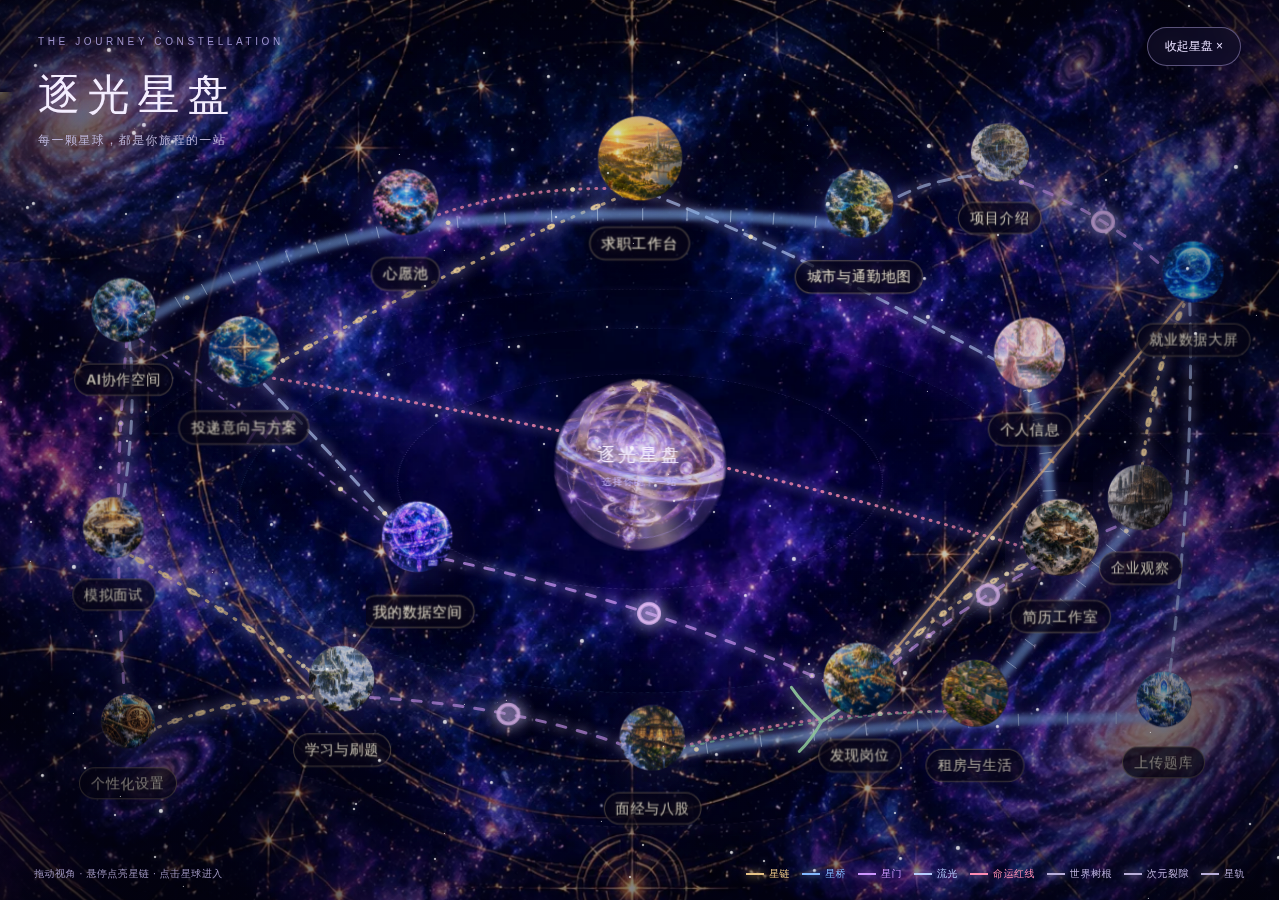
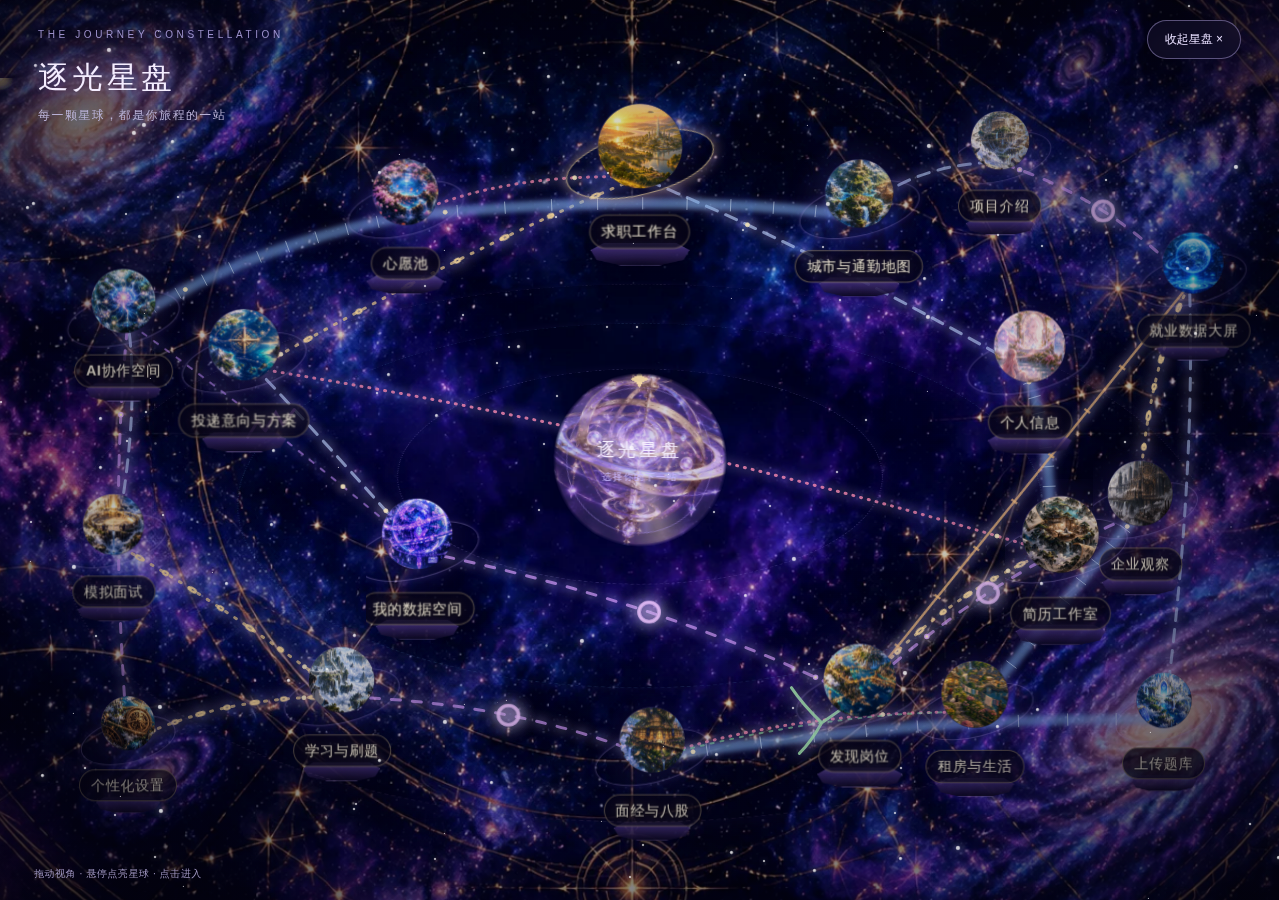
feat: 星盘入口与浮空星球视觉再设计
入口改为动态天体盘；18个节点增加浮空底座/轨道环；移除右下角连接图例；缩小标题、拉开布局并修正流星朝向/增强星尘。

diff --git a/app/src/app.css b/app/src/app.css
@@ -2701,3 +2701,29 @@ html[data-theme="night"] .housing-rent select { color: #eaf2ff; }
 .star-map-stars i{box-shadow:0 0 8px #e9eeff,0 0 18px rgba(170,190,255,.9);opacity:.8}
 /* 星球悬浮投影 */
 .star-planet:after{content:"";position:absolute;left:50%;bottom:-9px;width:78%;height:14px;transform:translateX(-50%);border-radius:50%;background:radial-gradient(ellipse,rgba(6,4,22,.72),transparent 72%);filter:blur(5px);z-index:-1;pointer-events:none}
+
+/* 星盘入口：迷你天体盘，而不是普通胶囊 */
+.orbit-trigger{width:auto!important;padding:6px 14px 6px 6px!important;gap:9px!important;background:linear-gradient(135deg,rgba(22,14,48,.96),rgba(42,27,82,.94))!important;border:1px solid rgba(224,197,255,.5)!important;color:#f5ebff!important;box-shadow:0 8px 28px rgba(65,40,130,.45),0 0 22px rgba(139,100,255,.25)!important;overflow:visible!important}
+.orbit-trigger-orb{position:relative;display:block;width:42px;height:42px;border-radius:50%;background-size:cover;background-position:center;box-shadow:0 0 0 1px rgba(255,230,170,.55),0 0 18px rgba(169,128,255,.7),inset 0 0 12px rgba(255,255,255,.2);animation:triggerOrb 9s ease-in-out infinite;flex:0 0 auto}
+.orbit-trigger-orb:after{content:"";position:absolute;inset:-5px;border-radius:50%;border:1px dashed rgba(247,216,152,.5);animation:triggerRing 12s linear infinite}
+.orbit-trigger-label{font-family:Georgia,"Songti SC",serif;font-size:13px;letter-spacing:.08em;white-space:nowrap;color:#f1e4ff;text-shadow:0 0 14px rgba(190,155,255,.55)}
+.orbit-trigger:hover{border-color:rgba(255,231,174,.85)!important;box-shadow:0 10px 32px rgba(80,50,150,.55),0 0 30px rgba(180,135,255,.5)!important}
+@keyframes triggerOrb{0%,100%{filter:brightness(.92)}50%{filter:brightness(1.2)}}
+@keyframes triggerRing{to{transform:rotate(360deg)}}
+.star-map-head h1{font-size:clamp(22px,2.4vw,36px)!important;letter-spacing:.12em!important}
+.star-map-head{padding-top:20px!important}
+.star-map-stage{inset:78px 0 58px!important}
+@media(max-width:900px){.star-map-stage{inset:66px 0 50px!important}}
+
+/* 3D 浮空岛底座 */
+.star-planet-base{position:absolute;left:50%;top:72%;width:86%;height:30%;z-index:0;transform:translateX(-50%) perspective(300px) rotateX(58deg);background:linear-gradient(180deg,rgba(159,133,228,.55),rgba(67,47,121,.8) 35%,rgba(18,13,42,.96));clip-path:polygon(12% 0,88% 0,100% 35%,92% 78%,68% 100%,32% 100%,8% 78%,0 35%);border:1px solid rgba(219,190,255,.3);box-shadow:0 18px 24px rgba(3,2,15,.55),0 0 22px rgba(132,99,255,.28);pointer-events:none}
+.star-planet-base:after{content:"";position:absolute;left:18%;right:18%;bottom:-12%;height:28%;background:radial-gradient(ellipse,rgba(6,4,22,.75),transparent 70%);filter:blur(6px)}
+.star-planet-shadow{position:absolute;left:50%;bottom:1%;width:70%;height:10%;z-index:-1;transform:translateX(-50%);border-radius:50%;background:rgba(0,0,0,.34);filter:blur(8px);pointer-events:none}
+.star-planet-img{position:relative;z-index:2}
+.star-planet-halo{z-index:1}
+.star-planet-name{position:relative;z-index:3}
+.star-planet:hover .star-planet-base,.star-planet:focus-visible .star-planet-base{border-color:rgba(255,226,164,.75);box-shadow:0 20px 28px rgba(3,2,15,.65),0 0 32px rgba(202,159,255,.6)}
+.star-planet-base{top:88%!important;height:22%!important;width:76%!important}
+.star-planet-orbit{position:absolute;left:50%;top:48%;width:124%;height:38%;z-index:1;transform:translate(-50%,-50%) rotate(-14deg);border:1px solid rgba(199,177,255,.32);border-radius:50%;box-shadow:0 0 8px rgba(144,112,255,.16);pointer-events:none;transition:.25s}
+.star-planet:hover .star-planet-orbit,.star-planet:focus-visible .star-planet-orbit,.star-planet.is-current .star-planet-orbit{border-color:rgba(255,226,164,.75);box-shadow:0 0 12px rgba(255,209,127,.45),0 0 20px rgba(144,112,255,.3)}
+.star-planet-base{top:90%!important;height:26%!important;width:82%!important}

diff --git a/app/src/star-map.ts b/app/src/star-map.ts
@@ -52,7 +52,6 @@ const CONNECTIONS: Connect[] = [
   { a: "data", b: "chat", kind: "rift" },
   { a: "jobs", b: "dashboard", kind: "rail" },
 ];
-const KIND_LABEL: Record<string, string> = { chain: "星链", bridge: "星桥", portal: "星门", starlight: "流光", thread: "命运红线", worldtree: "世界树根", rift: "次元裂隙", rail: "星轨" };
 const METEORS = (() => { let s = 91; const r = () => (s = (s * 48271) % 2147483647) / 2147483647; return Array.from({ length: 8 }, (_, i) => ({ left: 8 + r() * 85, top: r() * 48, len: 60 + r() * 100, delay: r() * 14, dur: 4 + r() * 3, key: i })); })();
 METEORS[0].delay = 0.2; METEORS[0].dur = 3.2; METEORS[0].top = 8; METEORS[0].left = 22;
 METEORS[1].delay = 3.4; METEORS[1].dur = 3.8; METEORS[1].top = 18; METEORS[1].left = 70;
@@ -149,6 +148,9 @@ export default defineComponent({
         title: DESCS[id] || name,
         "data-page": id,
       }, [
+        h("span", { class: "star-planet-shadow" }),
+        h("span", { class: "star-planet-base" }),
+        h("span", { class: "star-planet-orbit" }),
         h("span", { class: "star-planet-halo" }),
         h("span", { class: "star-planet-img" }, [
           h("span", { class: "star-planet-fallback" }, icon),
@@ -183,8 +185,7 @@ export default defineComponent({
           ])
         : null,
       h("div", { class: "star-map-foot" }, [
-        h("span", null, "拖动视角 · 悬停点亮星链 · 点击星球进入"),
-        h("div", { class: "star-map-legend" }, Object.entries(KIND_LABEL).map(([k, label]) => h("span", { class: "legend-" + k }, label))),
+        h("span", null, "拖动视角 · 悬停点亮星球 · 点击进入"),
       ]),
     ]);
   },

diff --git a/app/src/draggable-orbit.ts b/app/src/draggable-orbit.ts
@@ -460,8 +460,8 @@ export default defineComponent({
           onDragstart: (event: DragEvent) => event.preventDefault(),
         },
         [
-          h("i", { "aria-hidden": "true" }, "✦"),
-          h("span", expanded ? "收起星盘" : "展开星盘"),
+          h("span", { class: "orbit-trigger-orb", style: { backgroundImage: 'url("/assets/star-map/astrolabe2.webp")' }, "aria-hidden": "true" }),
+          h("span", { class: "orbit-trigger-label" }, expanded ? "收起星盘" : "展开星盘"),
         ],
       );
     };

diff --git a/docs/TEST_REPORT.md b/docs/TEST_REPORT.md
@@ -219,7 +219,7 @@
 - 数据空间：数据概览为本账号口径；上传记录可撤销；同岗位/企业/租房/问题按业务键保留最新并删除旧行；样例文件和去重/撤销测试通过。
 - 岗位投递意向：岗位卡片显示未确认/待保存/已确认；支持按已确认/未确认筛选，筛选使用服务端已保存意向。
 - 地图：修复 .page-content > * 的 relative 定位覆盖 .map-full fixed 导致地图容器 0 高度；地图层现在固定填满视口。岗位/租房/地铁/酒店/推荐改为类型化 SVG 图钉，图例置于顶部；进入地图时隐藏网站顶部栏，地图搜索框保持在顶部；通勤方向的住房/岗位地址已选后可点击 × 清除；企业详情表格字号提升到 14px/1.75；租房筛选栏合并城市、搜索、租金控件，搜索按钮改为主色；学习页 iframe 不再被 page-content 的 relative 规则下推，紧贴顶部栏；批量简化改为一次请求处理多条，最多50道并跳过已有答案；卡片显示“简化答案”标记；收藏/错题接口返回完整题目，刷新后收藏与错题列表和按钮状态恢复；修复 review 列表 onMounted/onActivated 并发重载导致的多次点击；面经八股移除重复的收藏/待复习/已掌握/学习入口；问问AI改为打开知微对话草稿，画布分步讲题和3D立方体鼠标交互通过；长题用 chip、Shift+Enter 换行、输入框自动伸缩、图片关闭X居中、立绘/看板娘会话管理（含删除）通过；讲题画布改为大尺寸覆盖窗口，可最小化再从对话框入口恢复；3D 支持透明材质与多物体组合（透明正方体+球体）；刷新学习页保持当前科目/版本；四个智能体支持自然语言生成自定义网页并弹出覆盖窗；报告页隐藏左上角悬浮上传入口；小机器人工具箱移除 Agent 任务。
-- 逐光星盘：18 个板块使用 AI 生成的独立风格星球图，单独生成的 3D 天体星盘图 + 动态扫光/自转，18 颗星球拉开间距，星链/星桥/星门/流光/命运红线/世界树根/次元裂隙/星轨连接；链环、桥板、星门、能量粒子为 SVG 动态绘制；悬停放大星球并出现中央法天象地预览，相关连线点亮；背景有闪烁星尘和流星；星球图为 webp，服务端 immutable 缓存 + 空闲预取。Playwright 实测 18 图加载、悬停/预览/联动、跳转、关闭和缓存头。
+- 逐光星盘：18 个板块使用 AI 生成的独立风格星球图，单独生成的 3D 天体星盘图 + 动态扫光/自转，18 颗浮空星球/浮岛底座拉开间距，星盘入口改为动态天体盘，移除右下角线条图例，星链/星桥/星门/流光/命运红线/世界树根/次元裂隙/星轨连接；链环、桥板、星门、能量粒子为 SVG 动态绘制；悬停放大星球并出现中央法天象地预览，相关连线点亮；背景有闪烁星尘和流星；星球图为 webp，服务端 immutable 缓存 + 空闲预取。Playwright 实测 18 图加载、悬停/预览/联动、跳转、关闭和缓存头。
 - 详细记录：[CLICK_AUDIT.md](CLICK_AUDIT.md)
 
 ## 六、仍存在的限制/风险

diff --git a/docs/MANUAL_TESTING.md b/docs/MANUAL_TESTING.md
@@ -100,7 +100,7 @@
 | 21 | 上传去重/撤销 | 上传 docs/manual-data/jobs-upload-sample.csv 两次；在“已上传的数据”或“上传记录”点“撤销上传” | 首次约5行；第二次替换旧行；两个入口都能撤销并删除数据 | 样例是虚构数据 |
 | 22 | 关闭按钮/圆盘 | 打开通告、登录弹窗；看板娘圆盘 | × 垂直水平居中；紫色圆盘 ✦ 居中 | 深色主题同样 |
 | 23 | 岗位投递意向筛选 | 岗位页点“加入投递意向”并保存；切换“已确认/未确认投递意向” | 卡片出现已确认/待保存徽标；已确认筛选只显示已保存岗位 | 未保存选择算未确认 |
-| 35 | 逐光星盘 3D 宇宙地图 | 点击“展开星盘”；悬停星球；点击任意星球；关闭 | 18 颗风格化星球和名称，星球间距加大无遮挡；悬停星球/相关连线发光，中央出现大星球预览；中心 3D 天体盘自转，背景星尘闪烁并有流星；点击进入板块；二次打开图片走缓存 | 1279×900 / 1279×601 |
+| 35 | 逐光星盘 3D 宇宙地图 | 点击“展开星盘”；悬停星球；点击任意星球；关闭 | 星盘入口是动态天体盘；18 颗浮空星球/浮岛底座和名称，间距加大无遮挡；右下角无连接形式图例；悬停星球/相关连线发光，中央出现大星球预览；中心 3D 天体盘自转，背景星尘闪烁并有流星；点击进入板块；二次打开图片走缓存 | 1279×900 / 1279×601 |
 | 34 | 智能体自定义网页 | 对任一看板娘说“生成一个学习计划网页” | 弹出可最小化的独立网页窗口；报告页左上角无悬浮上传按钮；科目工具箱无 Agent 任务 | 真实 AI |
 | 33 | 讲题覆盖窗/刷新 | 在知微里让AI讲题/做3D；关掉覆盖窗后刷新学习页 | 画布覆盖页面，右上角 − 可最小化；刷新仍在原科目版本 | 覆盖窗 z-index 高 |
 | 32 | 对话 chip/输入/会话 | 问问AI填入长题；Shift+Enter；输入长文本；点新会话/会话；删除历史会话 | 输入框显示[题目]chip；换行不发送；输入框先变宽再增高；可新建/切换/删除会话并刷新保留 | 1279×900 |

diff --git a/docs/FEATURES.md b/docs/FEATURES.md
@@ -6,7 +6,7 @@
 
 - 落地页、品牌、职业旅程地图（17 个板块）
 - 可拖动/收起的星盘导航，位置记忆，键盘可操作
-- 逐光星盘：全屏宇宙星空 3D 旅程地图，18 个板块各自一颗风格化星球（AI 生成世界场景），中心天盘、星链/星桥/星门/流光/命运红线连接，悬停点亮星球与相关连线并出现中央“法天象地”预览，点击进入对应板块；中心是单独生成的 3D 天体星盘图，叠加自转/能量扫光、光点星尘、流星和悬浮阴影；图片 webp + immutable 缓存
+- 逐光星盘：全屏宇宙星空 3D 旅程地图，18 个板块各自一颗风格化浮空星球/浮岛底座（AI 生成世界场景，带轨道环、悬浮阴影），星盘入口改为动态天体盘；中心天盘、星链/星桥/星门/流光/命运红线连接，悬停点亮星球与相关连线并出现中央“法天象地”预览，点击进入对应板块；中心是单独生成的 3D 天体星盘图，叠加自转/能量扫光、光点星尘、流星和悬浮阴影；图片 webp + immutable 缓存
 - 首页 bigdata_analysis 风格 Tendril 弹簧拖尾：20 条曲线跟随鼠标；透明 canvas、不拦截点击
 - 左上角逐光 Logo 始终回到首页第一个板块；已在首页时回到顶部
 - 就业数据大屏：标题居中；全屏时左上角显示同风格“退出全屏”按钮，非全屏隐藏
